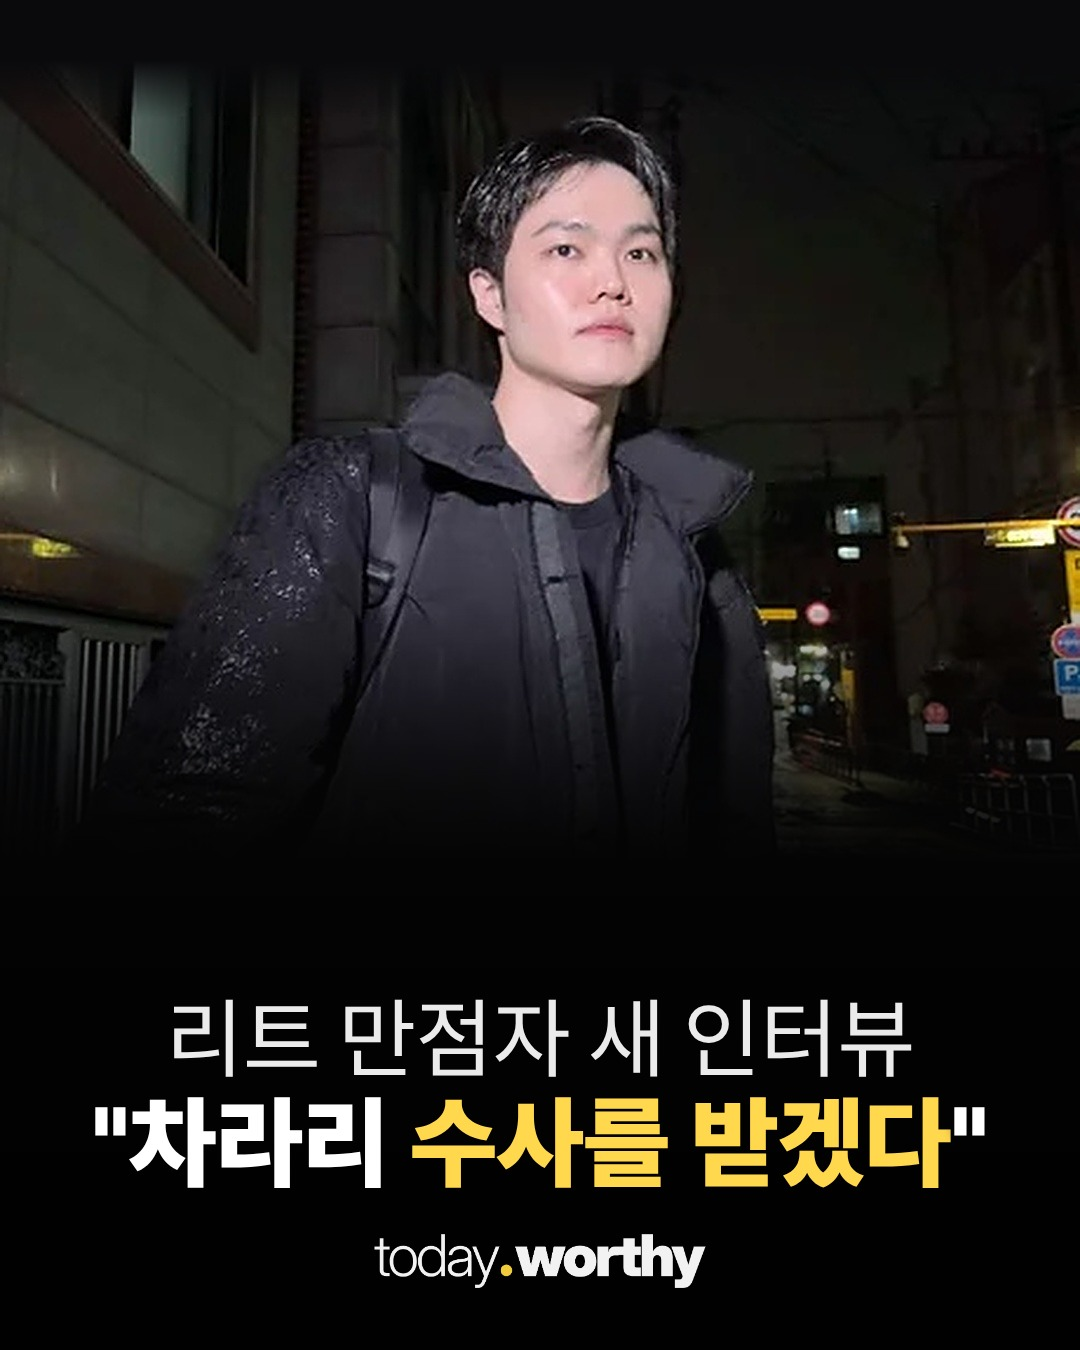
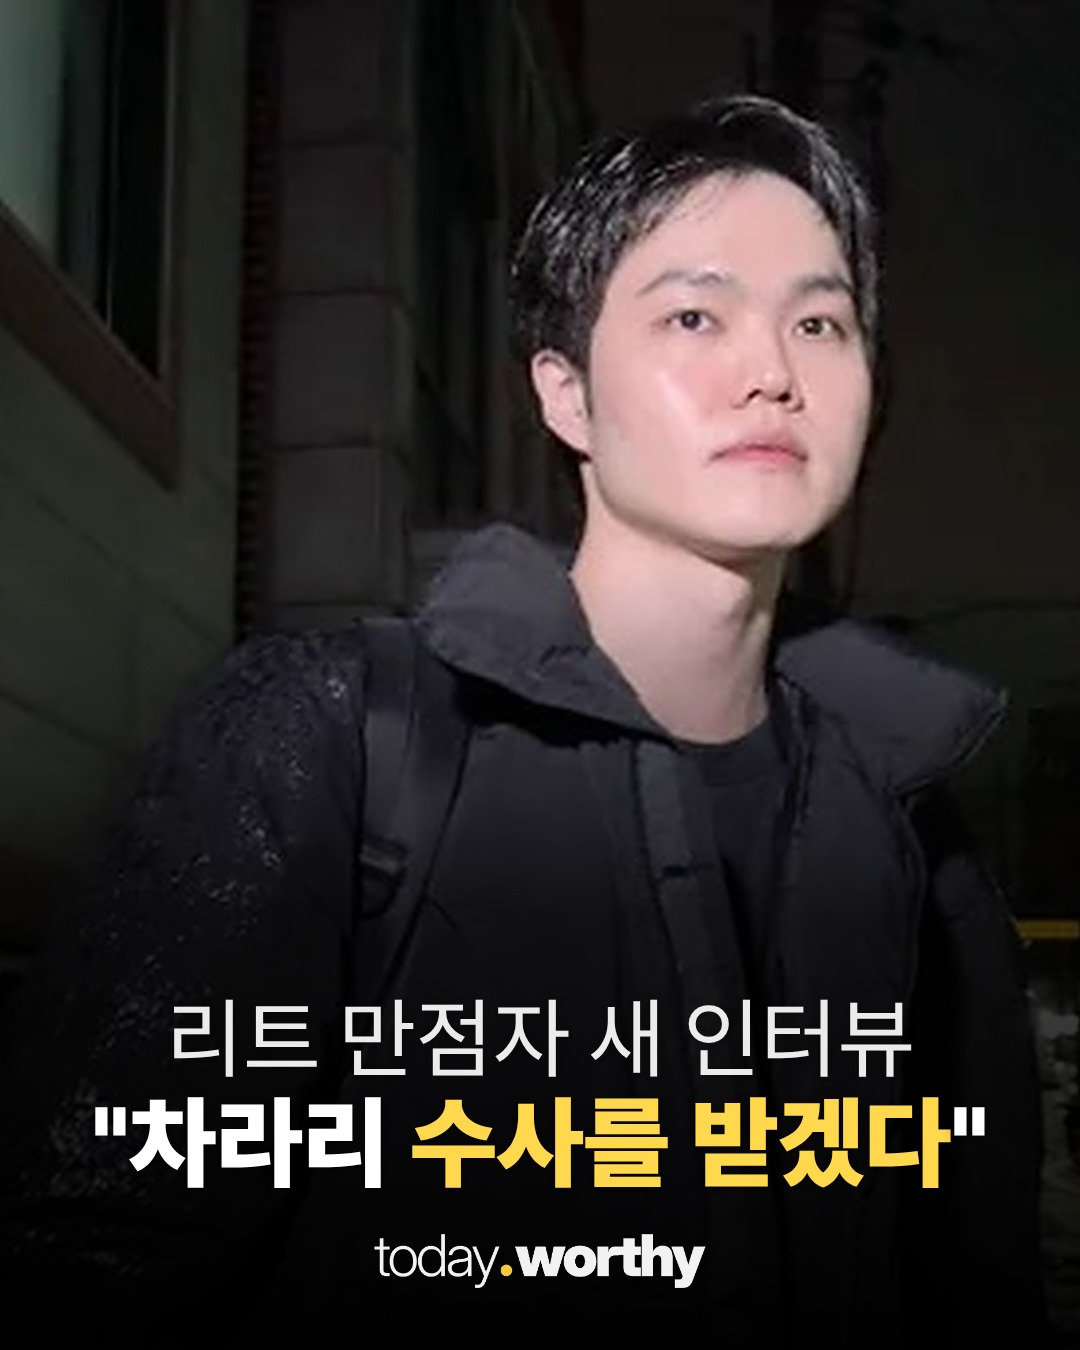
leetint 표지: 꽉 차게
Claude-Session: https://claude.ai/code/session_01FGsw5QnWxFUsnopcB1Czie

Changed region(s): [[0.0, 0.0, 1.0, 0.7156], [0.9472, 0.6844, 1.0, 0.9022], [0.3667, 0.0622, 0.3972, 0.0933]]

diff --git a/media/20261117-leetint/build_cards.py b/media/20261117-leetint/build_cards.py
@@ -71,13 +71,6 @@ frame(("17일 밤 자택 앞에서 만난 리트 만점자", "의혹 '전면 부
 frame(("시험지 의혹엔 이렇게 답했다", "'확률 희박'은 인정"),
       panel([("25~29번 답 고친 흔적", "\"고민하다 답을 '고른' 거다\""), ("우연일 가능성", "\"확률이 희박하다는 건 '인정한다'\""), ("시험지에 적힌 숫자 '33'", "\"다음 날 '전화통화' 하다 끄적인 것\"")], h=560),
       "스토킹 폭로자엔 '법적 대응' 고려", "부정행위는 아직 확인된 사실이 아닙니다").save(O / "c03.jpg", quality=93)
-# 표지: 사용자 제공 선명한 원본(610x343, 중앙일보 자택 앞 사진). 세로로 자르면 너무 늘어나서 일부만 자르고(가로 460) 위쪽에 크게 두고 아래는 어둡게 이음
-ph = op("article_photo_hd.jpg").crop((150, 0, 610, 343))
-ph = ph.resize((W, round(ph.height * W / ph.width)), Image.LANCZOS).filter(ImageFilter.UnsharpMask(2, 70, 2))
-bgc = (10, 10, 12); cov = Image.new("RGB", (W, H), bgc); cov.paste(ph, (0, 60))
-g = Image.new("L", (W, 260)); g.putdata([int(255 * y / 259) for y in range(260) for _ in range(W)])
-cov.paste(Image.new("RGB", (W, 260), bgc), (0, 60 + ph.height - 260), g)
-g2 = Image.new("L", (W, 60)); g2.putdata([int(255 * (59 - y) / 59) for y in range(60) for _ in range(W)])
-cov.paste(Image.new("RGB", (W, 60), bgc), (0, 60), g2)
-cov.save(O / "cover_bg.jpg", quality=95)
+# 표지: 사용자 제공 선명한 원본(610x343, 중앙일보 자택 앞 사진)을 화면 꽉 차게(사용자 선택)
+fit(op("article_photo_hd.jpg"), W, H, (.64, .3)).filter(ImageFilter.UnsharpMask(2, 70, 2)).save(O / "cover_bg.jpg", quality=95)
 print("ok")
